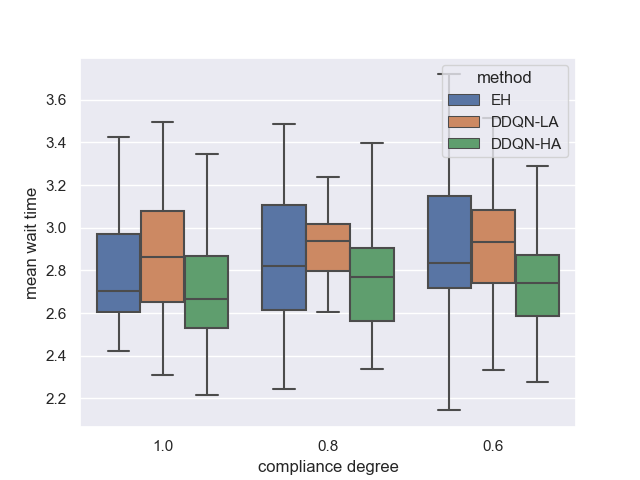
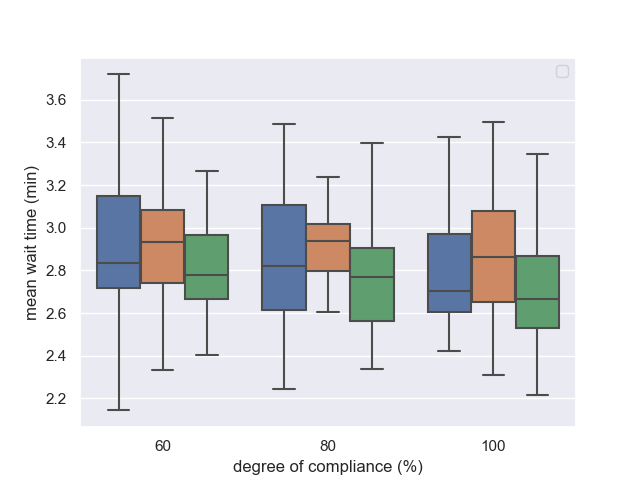
fancy plots

diff --git a/main_sim.py b/main_sim.py
@@ -169,14 +169,14 @@ def fancy_plots():
     idx = [0, 2, 4, 5, 6, 7, 8, 10, 12]
     wt = list(np.array(wt_all_set2)[idx].flatten())
 
-    method = (['EH'] * nr_replications + ['DDQN-LA'] * nr_replications + ['DDQN-HA'] * nr_replications) * nr_scenarios
+    method = (['EH'] * nr_replications + ['RL-LA'] * nr_replications + ['RL-HA'] * nr_replications) * nr_scenarios
     tt_var = ['low'] * nr_replications * nr_methods + ['base'] * nr_replications * nr_methods + ['high'] * nr_replications * nr_methods
 
     df_dict = {'tt_var': tt_var, 'method': method, 'wt': wt}
     df = pd.DataFrame(df_dict)
     sns.set(style='darkgrid')
     sns.boxplot(x='tt_var', y='wt', hue='method', data=df, showfliers= False)
-    plt.ylabel('mean wait time')
+    plt.ylabel('mean wait time (min)')
     plt.xlabel('run time variability')
     plt.savefig('out/compare/sensitivity run times/wt_fancy.png')
     plt.close()
@@ -186,23 +186,25 @@ def fancy_plots():
     nr_replications = 40
     nr_methods = 3
     nr_scenarios = 3
-    idx = [0, 1, 2, 3, 5, 6, 8, 9, 12]
+    idx = [0, 1, 2, 3, 5, 6, 8, 9, 11]
     wt = list(np.array(wt_set)[idx].flatten())
 
-    method = (['EH'] * nr_replications + ['DDQN-LA'] * nr_replications + ['DDQN-HA'] * nr_replications) * nr_scenarios
-    compliance = ['1.0'] * nr_replications * nr_methods + ['0.8'] * nr_replications * nr_methods + ['0.6'] * nr_replications * nr_methods
+    method = (['EH'] * nr_replications + ['RL-LA'] * nr_replications + ['RL-HA'] * nr_replications) * nr_scenarios
+    compliance = [100] * nr_replications * nr_methods + [80] * nr_replications * nr_methods + [60] * nr_replications * nr_methods
 
-    df_dict = {'compliance degree': compliance, 'method': method, 'wt': wt}
+    df_dict = {'compliance': compliance, 'method': method, 'wt': wt}
     df = pd.DataFrame(df_dict)
     sns.set(style='darkgrid')
-    sns.boxplot(x='compliance degree', y='wt', hue='method', data=df, showfliers= False)
-    plt.ylabel('mean wait time')
+    sns.boxplot(x='compliance', y='wt', hue='method', data=df, showfliers= False)
+    plt.legend('')
+    plt.xlabel('degree of compliance (%)')
+    plt.ylabel('mean wait time (min)')
     plt.savefig('out/compare/sensitivity compliance/wt_fancy.png')
     plt.close()
     return
 
 
-# fancy_plots()
+fancy_plots()
 # run_base_detailed(replications=2)
 # run_benchmark(base=False, base_control=True)
 # run_benchmark(base=False, base_control=True, control_strength=0.75, tt_factor=0.8)
